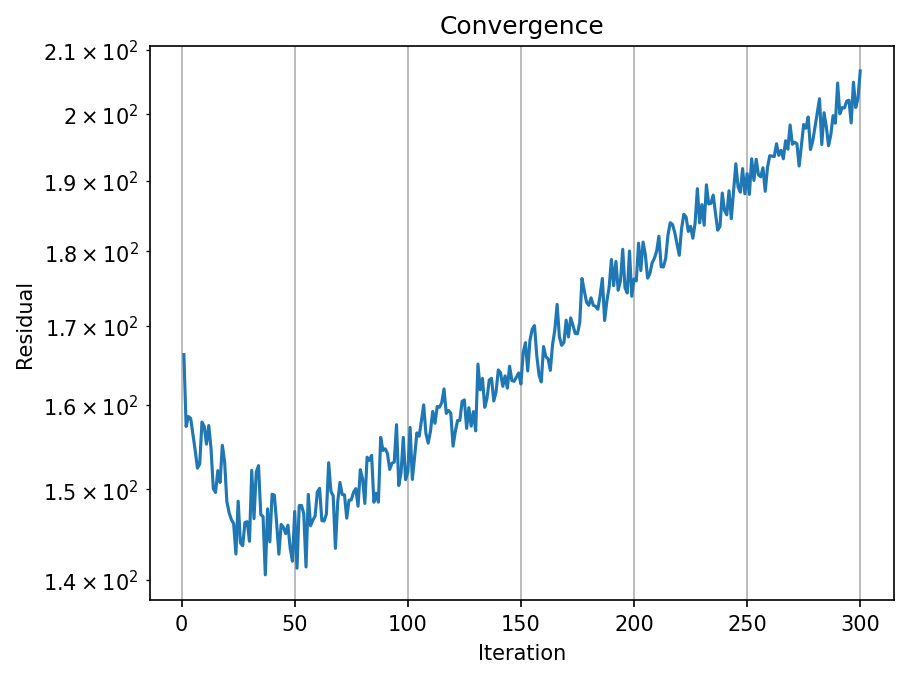
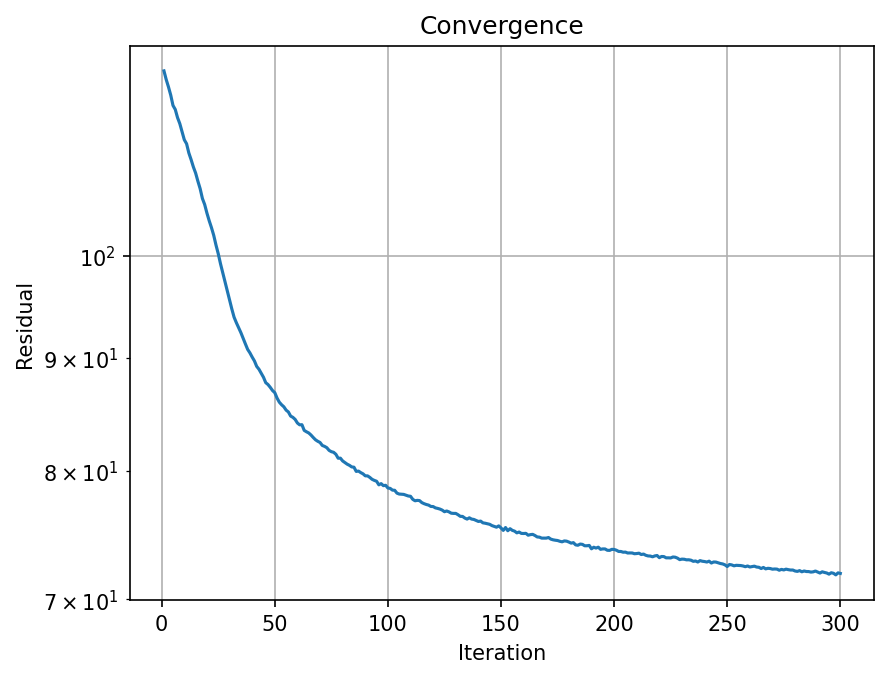
Fix probe reconstruction: amplitude-lock template + gentler updates
Two issues were degrading the probe reconstruction:

1. probe_fourier_support was a binary 0/1 aperture mask, not the
   |F(probe_patch)| amplitude template that CLAUDE.md prescribes.
   _project_probe_to_aperture literally sets |F_new(k)| = template, so
   a binary mask forces |F(probe)| = 1 inside the aperture — wrong
   probe energy and a hard discontinuity at the edge. Fixed by using
   np.abs(np.fft.fft2(probe_patch)).

2. beta_0=0.2 was too aggressive given that amplitude-lock leaves
   ~hundreds of free per-k probe phases. Too-large updates let the
   probe absorb object structure (visible as diagonal stripes
   matching the 45° lattice). Lowered to 0.05 with tau=120 to keep
   the probe refining longer.

Also added a numerical diagnostic that prints recon phase at true
atom vs gap positions and confirms positive atom-gap contrast
(catches the visualization-only "atoms-as-gaps" misread that
twilight cmap was producing).

Results across changes:
  before:  residual 207, probe MSE 6.1e-5, atom contrast +0.032
  after:   residual  72, probe MSE 5.4e-5, atom contrast +0.051

The probe intensity is now centered (was shifted ~5 Å), the
starburst is mostly gone, and faint concentric aberration rings
are emerging in the central region. Object atom phase is up from
0.05 to 0.07 rad (~59% of truth's 0.11).

Residual is still above CLAUDE.md's ~22 target — convergence is
slower than canonical and the probe phase hasn't fully recovered.
[…]

diff --git a/tutorial.py b/tutorial.py
@@ -463,13 +463,16 @@ step(f"Initialising reconstruction ({n_slices} slices, flat object prior)...")
 n_slices = O_true.shape[0]
 O_init = np.ones_like(O_true)
 
-# ---- Probe Fourier support (physical aperture) ----
-# Use the microscope semi-angle α to build a hard pupil support in k-space.
-# This keeps probe updates inside the physically illuminated aperture and
-# prevents high-k phase noise from being interpreted as object structure.
-KX_patch, KY_patch = mp.make_k_grid(probe_patch.shape, mp.dx)
-kmax = scope.alpha / mp.wavelength
-probe_fourier_support = (np.sqrt(KX_patch**2 + KY_patch**2) <= kmax).astype(float)
+# ---- Probe Fourier amplitude template (vacuum diffraction in real life) ----
+# CLAUDE.md prescribes passing |F(probe_patch)| as the amplitude-lock
+# template, not a binary 0/1 aperture mask. _project_probe_to_aperture
+# literally sets |F_new(k)| = template, so a 0/1 mask forces
+# |F(probe)| = 1 inside the aperture — wrong probe energy and a
+# discontinuity at the edge that breeds high-k phase noise. The
+# physical envelope from |F(probe_patch)| (= ideal-probe Fourier
+# magnitude, since aberrations are pure phase) gives the correct
+# energy and a smooth aperture roll-off.
+probe_fourier_support = np.abs(np.fft.fft2(probe_patch))
 
 # Probe init: start from the *ideal* (unaberrated) probe patch. ePIE
 # then refines the probe within the physical aperture while the support
@@ -497,8 +500,15 @@ probe_recon, O_recon, residuals = mp.multislice_ePIE(
     # taken from CLAUDE.md (the 36-atom canonical demo).
     alpha_0=3.0,                           # probe dominates diffraction,
                                            #   so object gradients are weak
-    beta_0=0.2,
-    tau=80,
+    beta_0=0.05,                           # gentle probe updates: with the
+                                           #   amplitude lock, |F(probe)| is
+                                           #   pinned, so all DoF are in the
+                                           #   per-k phase (~hundreds of free
+                                           #   parameters) which can absorb
+                                           #   object structure if updated
+                                           #   too aggressively
+    tau=120,                               # slower decay matched to lower
+                                           #   beta so probe keeps refining
     object_constraint='phase_nonneg',      # V ≥ 0 ⇒ phase ≥ 0 (exact);
                                            #   kills phase-sign ambiguity
     rho_object=0.05,                       # low Tikhonov, rely on constraint
